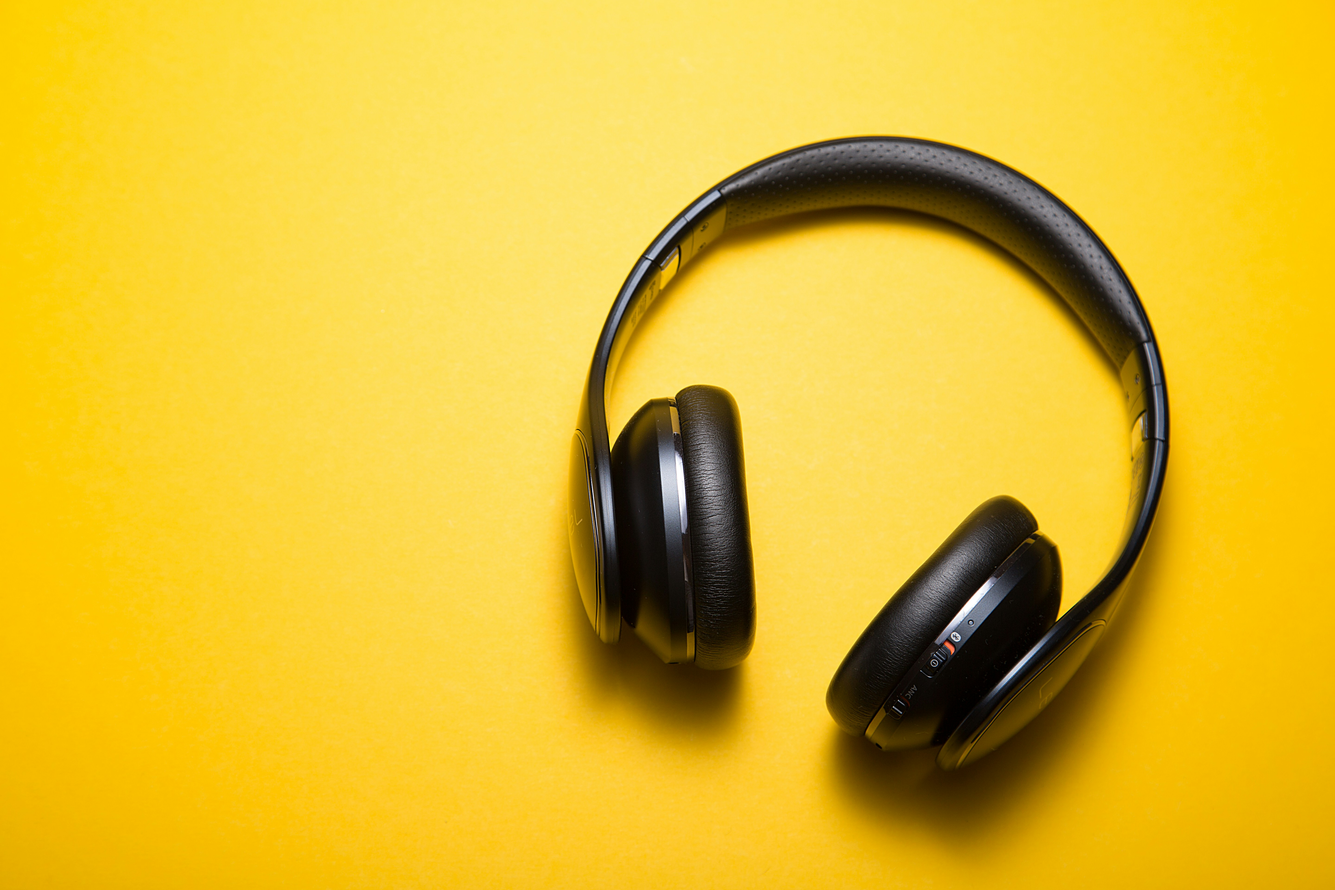
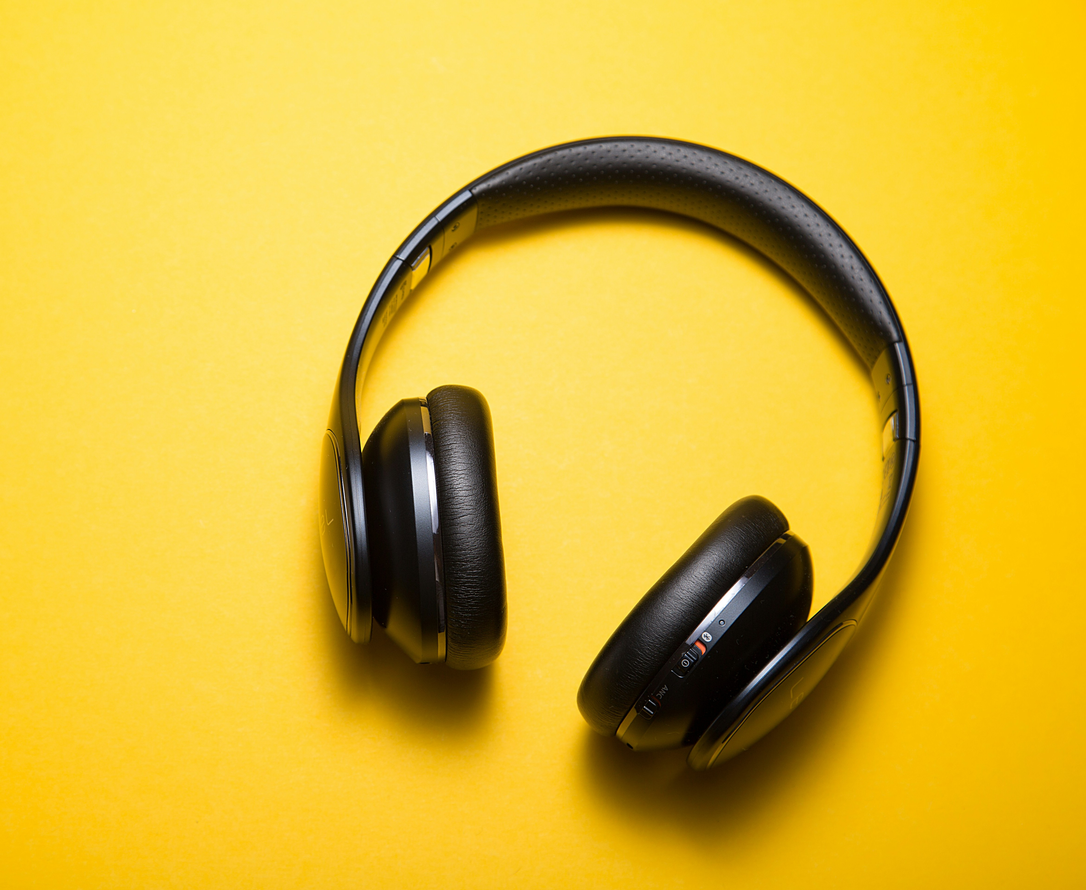
Add environment files for API URL configuration

diff --git a/src/app/app.routes.ts b/src/app/app.routes.ts
@@ -3,24 +3,41 @@ import { ProductDetails } from './product-details/product-details';
 import { Home } from './home/home';
 import { Cart } from './cart/cart';
 import { Checkout } from './checkout/checkout';
+import { Login } from './login/login';
+import {Register} from './register/register';
+import {authGuard} from './guards/auth-guard';
+
 export const routes: Routes = [
    {
     path:'',
-    component: Home
+    component: Home,
+    canActivate: [authGuard]
    },
    
    {
     path:'cart',
-    component: Cart
+    component: Cart,
+    canActivate: [authGuard]
     },
    
     {
         path:'product-details/:id',
-        component: ProductDetails
+        component: ProductDetails,
+        canActivate: [authGuard]
     },
     {
         path:'checkout',
-        component:Checkout
+        component:Checkout,
+        canActivate: [authGuard]
+    },
+    {
+        path:'login',
+        component:Login
+    },
+    {
+        path:'register',
+        component:Register
     }
+
 
 ];

diff --git a/src/app/services/auth.ts b/src/app/services/auth.ts
@@ -1,0 +1,34 @@
+import { Injectable } from "@angular/core";
+import { HttpClient } from "@angular/common/http";
+import { Observable } from "rxjs";
+import { environment } from "../../environments/environment";
+
+@Injectable({
+    providedIn: 'root'
+})
+export class AuthService{
+    private apiUrl = `${environment.apiUrl}/api`;
+
+    constructor(private http:HttpClient){}
+
+    register(user:any):Observable<any>{
+        return this.http.post(`${this.apiUrl}/register`,user,{responseType:'text'});
+
+        }
+        login(user:any):Observable<any>{
+            return this.http.post<any>(`${this.apiUrl}/login`,user);
+        }
+        saveToken(token:string){
+            localStorage.setItem('token',token);
+        }
+        getToken():string | null {
+            return localStorage.getItem('token');
+        }
+        logout(){
+            localStorage.removeItem('token');
+        }
+        isLoggedIn():boolean{
+            return !! this.getToken();
+        }
+
+}

diff --git a/src/app/login/login.ts b/src/app/login/login.ts
@@ -1,0 +1,31 @@
+import { Component } from '@angular/core';
+import { FormsModule } from '@angular/forms';
+import { AuthService } from '../services/auth';
+import { Router } from '@angular/router';
+
+@Component({
+  selector: 'app-login',
+  imports: [FormsModule],
+  templateUrl: './login.html',
+  styleUrl: './login.css',
+})
+export class Login {
+  username = '';
+  password = '';
+  errorMessage = '';
+
+  constructor(private authService: AuthService, private router: Router) {}
+
+  onLogin() {
+    const user = { username: this.username, password: this.password };
+    this.authService.login(user).subscribe({
+      next: (response) => {
+        this.authService.saveToken(response.token);
+        this.router.navigate(['/']);
+      },
+      error: (err) => {
+        this.errorMessage = 'Invalid username or password';
+      }
+    });
+  }
+}

diff --git a/src/app/register/register.ts b/src/app/register/register.ts
@@ -1,0 +1,30 @@
+import { Component } from '@angular/core';
+import {FormsModule}from '@angular/forms';
+import { AuthService } from '../services/auth';
+import { Router } from '@angular/router';
+
+@Component({
+  selector: 'app-register',
+  imports: [FormsModule],
+  templateUrl: './register.html',
+  styleUrl: './register.css',
+})
+export class Register {
+  username = '';
+  password = '';
+  errorMessage = '';
+
+  constructor (private authService:AuthService, private router:Router){}
+
+  onRegister(){
+    const user = {username:this.username, password:this.password};
+    this.authService.register(user).subscribe({
+      next:() =>{
+        this.router.navigate(['/login']);
+      },
+      error:(err) => {
+        this.errorMessage = 'Registration failed. Try a different username.';
+      }
+    });
+  }
+}

diff --git a/src/app/register/register.spec.ts b/src/app/register/register.spec.ts
@@ -1,0 +1,23 @@
+import { ComponentFixture, TestBed } from '@angular/core/testing';
+
+import { Register } from './register';
+
+describe('Register', () => {
+  let component: Register;
+  let fixture: ComponentFixture<Register>;
+
+  beforeEach(async () => {
+    await TestBed.configureTestingModule({
+      imports: [Register]
+    })
+    .compileComponents();
+
+    fixture = TestBed.createComponent(Register);
+    component = fixture.componentInstance;
+    fixture.detectChanges();
+  });
+
+  it('should create', () => {
+    expect(component).toBeTruthy();
+  });
+});

diff --git a/src/app/login/login.spec.ts b/src/app/login/login.spec.ts
@@ -1,0 +1,23 @@
+import { ComponentFixture, TestBed } from '@angular/core/testing';
+
+import { Login } from './login';
+
+describe('Login', () => {
+  let component: Login;
+  let fixture: ComponentFixture<Login>;
+
+  beforeEach(async () => {
+    await TestBed.configureTestingModule({
+      imports: [Login]
+    })
+    .compileComponents();
+
+    fixture = TestBed.createComponent(Login);
+    component = fixture.componentInstance;
+    fixture.detectChanges();
+  });
+
+  it('should create', () => {
+    expect(component).toBeTruthy();
+  });
+});

diff --git a/src/app/services/order.ts b/src/app/services/order.ts
@@ -1,12 +1,12 @@
 import { Injectable } from "@angular/core";
 import { HttpClient } from "@angular/common/http";
 import { Observable } from "rxjs";
-
+import { environment } from "../../environments/environment";
 @Injectable({
     providedIn: 'root'
 })
 export class OrderService{
-    private apiUrl = 'http://localhost:8080/api/orders';
+    private apiUrl = `${environment.apiUrl}/orders`;
 
     constructor(private http:HttpClient){}
 

diff --git a/src/app/services/product.ts b/src/app/services/product.ts
@@ -1,12 +1,13 @@
 import { Injectable } from '@angular/core';
 import { HttpClient } from '@angular/common/http';
 import { Observable } from 'rxjs';
+import { environment } from '../../environments/environment';
 
 @Injectable({
   providedIn: 'root',
 })
 export class ProductService {
-  private apiUrl = 'http://localhost:8080/api/products';
+  private apiUrl = `${environment.apiUrl}/products`;
 
   constructor(private http:HttpClient){}
 

diff --git a/src/app/guards/auth-guard.ts b/src/app/guards/auth-guard.ts
@@ -1,0 +1,16 @@
+import { inject } from "@angular/core";
+import { CanActivateFn, Router } from "@angular/router";
+import { AuthService } from "../services/auth";
+
+export const authGuard:CanActivateFn = () => {
+    
+    const authService = inject(AuthService);
+    const router = inject(Router);
+
+    if (authService.isLoggedIn()){
+        return true;
+    }
+
+    router.navigate(['/login']);
+    return false;
+};

diff --git a/src/app/register/register.html b/src/app/register/register.html
@@ -1,0 +1,7 @@
+<h1>Register</h1>
+<input [(ngModel)]="username" type="password" placeholder="Username">
+<br>
+<input [(ngModel)]="password" type="password" placeholder="Password">
+<br>
+<button (click)="onRegister()">Register</button>
+<p style="color:red;">{{errorMessage}}</p>

diff --git a/src/index.html b/src/index.html
@@ -6,6 +6,8 @@
   <base href="/">
   <meta name="viewport" content="width=device-width, initial-scale=1">
   <link rel="icon" type="image/x-icon" href="favicon.ico">
+  <link rel="preconnect" href="https://fonts.googleapis.com">
+  
 </head>
 <body>
   <app-root></app-root>

diff --git a/src/app/app.html b/src/app/app.html
@@ -3,6 +3,10 @@
 
 <a routerLink="/cart">Cart</a><br>
 
-<a routerLink="/checkout">Checkout</a>
+<a routerLink="/checkout">Checkout</a> <br>
+
+<a routerLink="/login">Login</a> <br>
+
+<a routerLink="/register">Register</a>
 
 <router-outlet></router-outlet>
